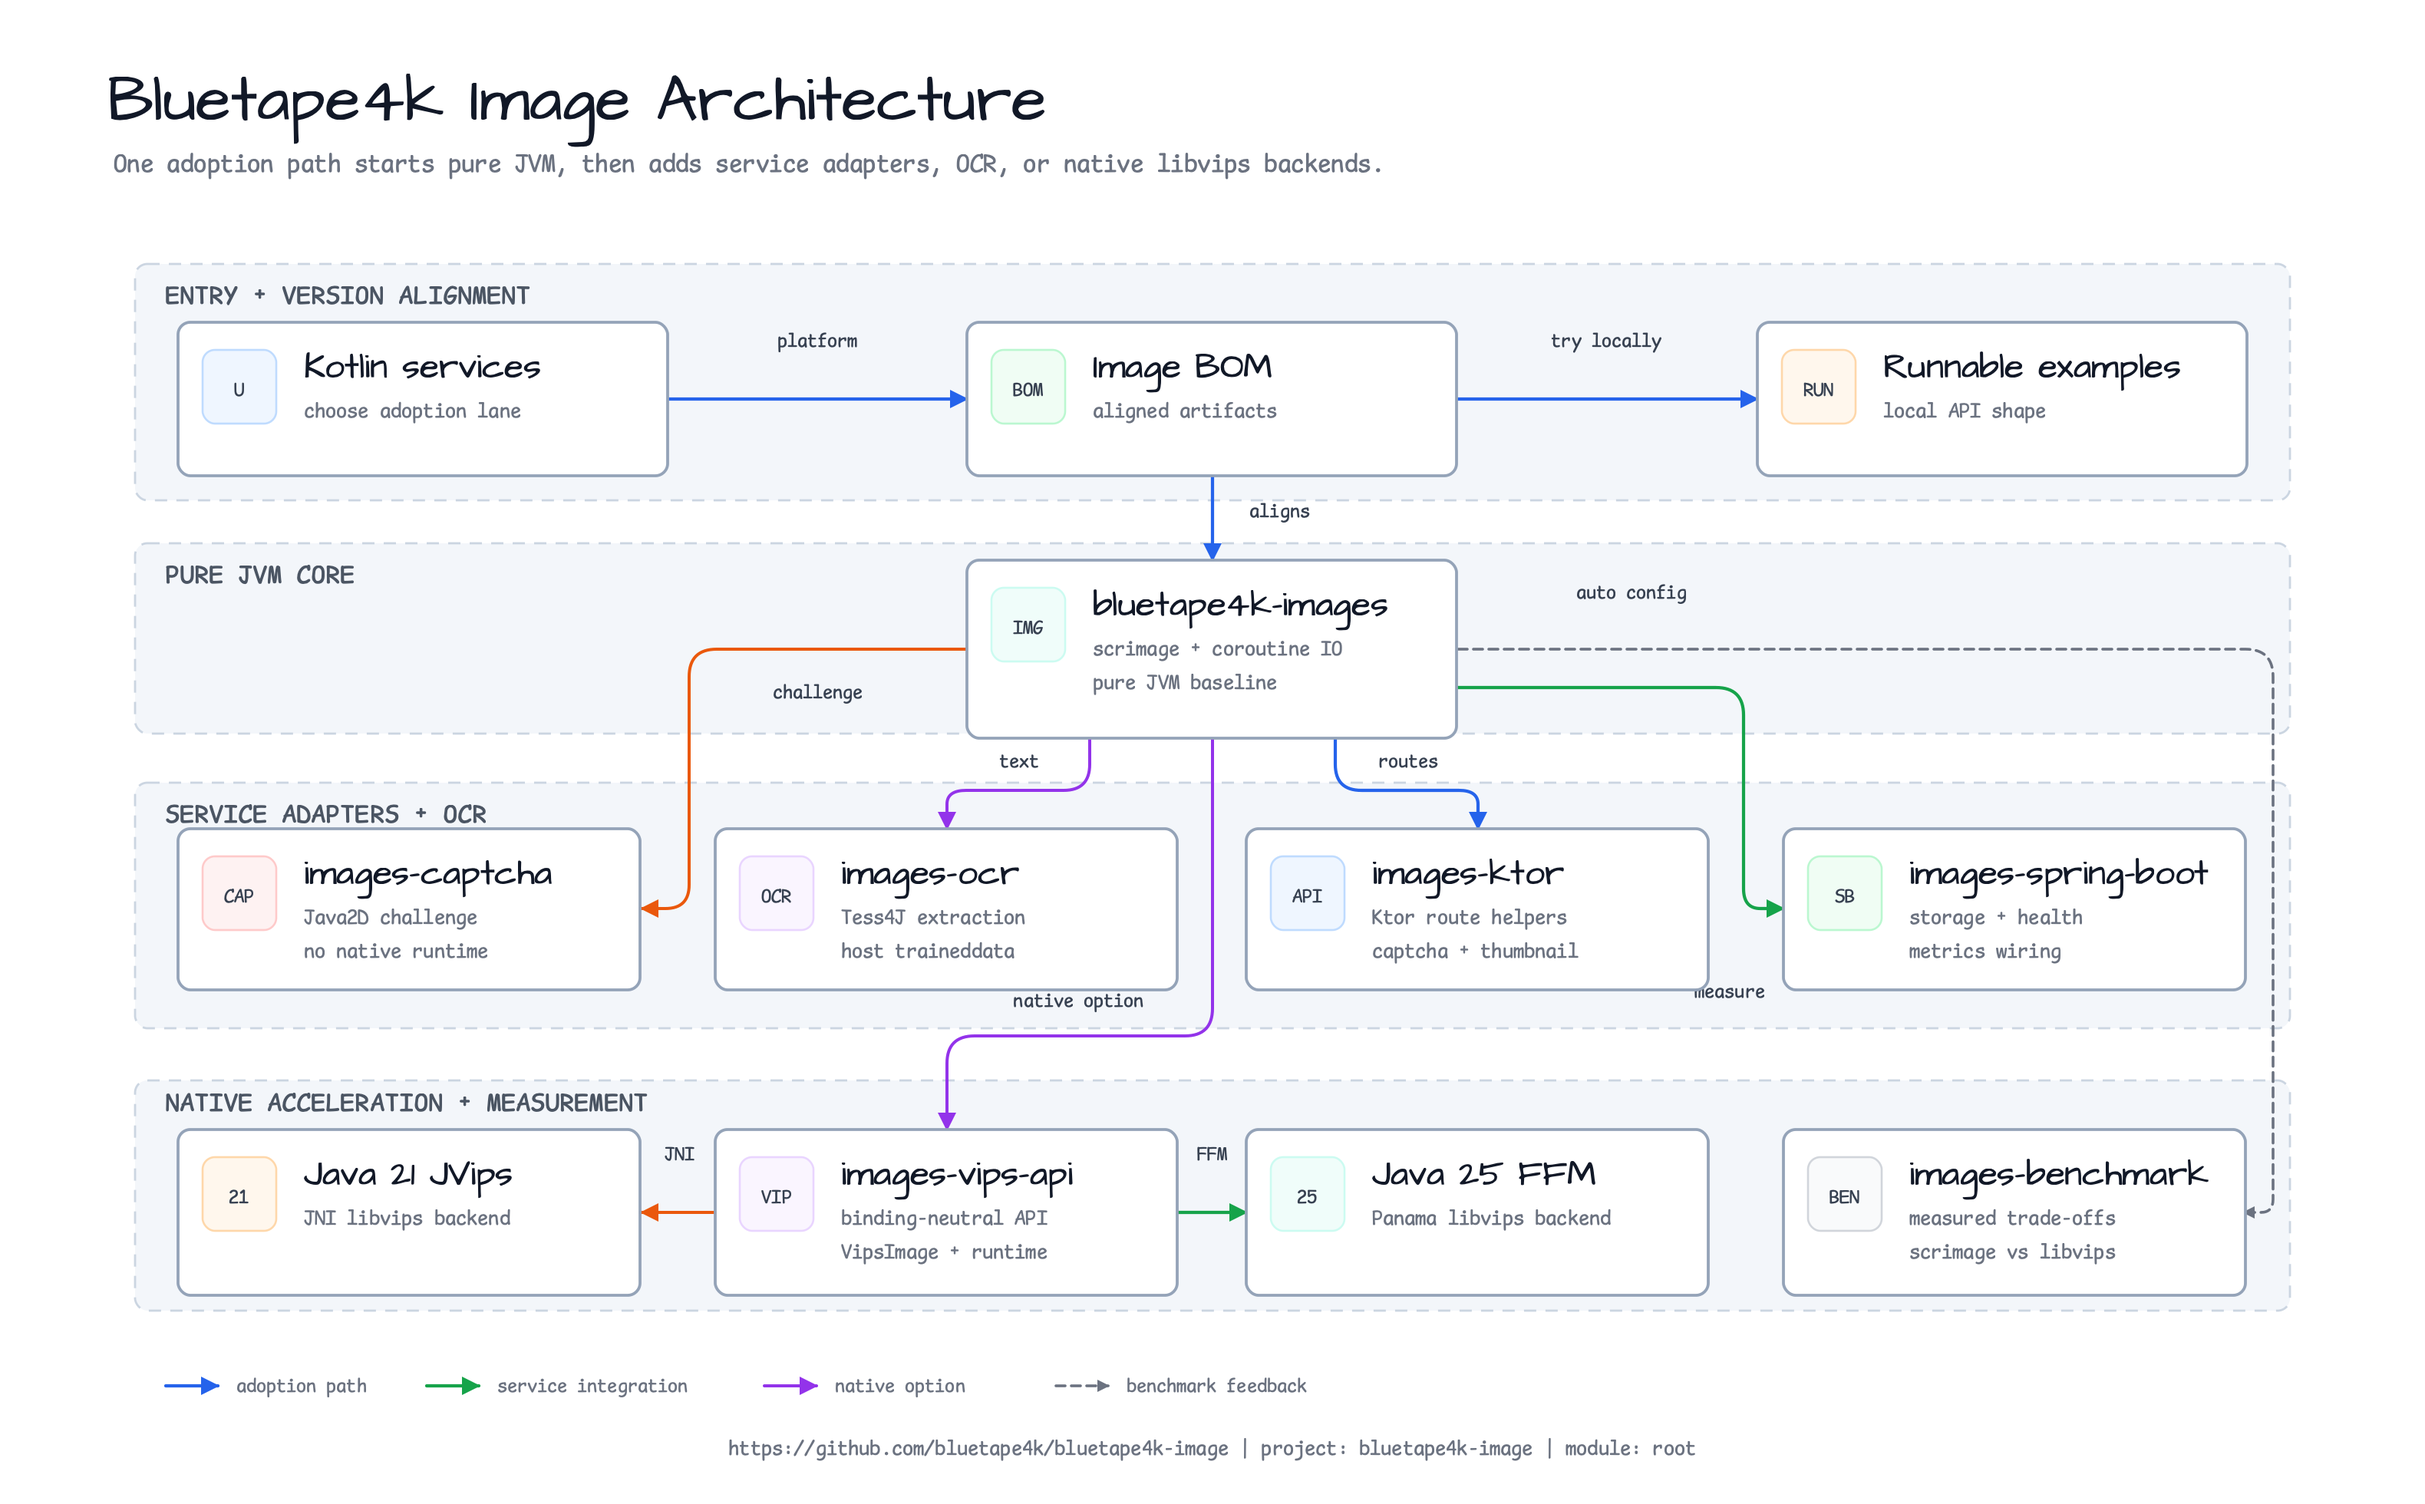
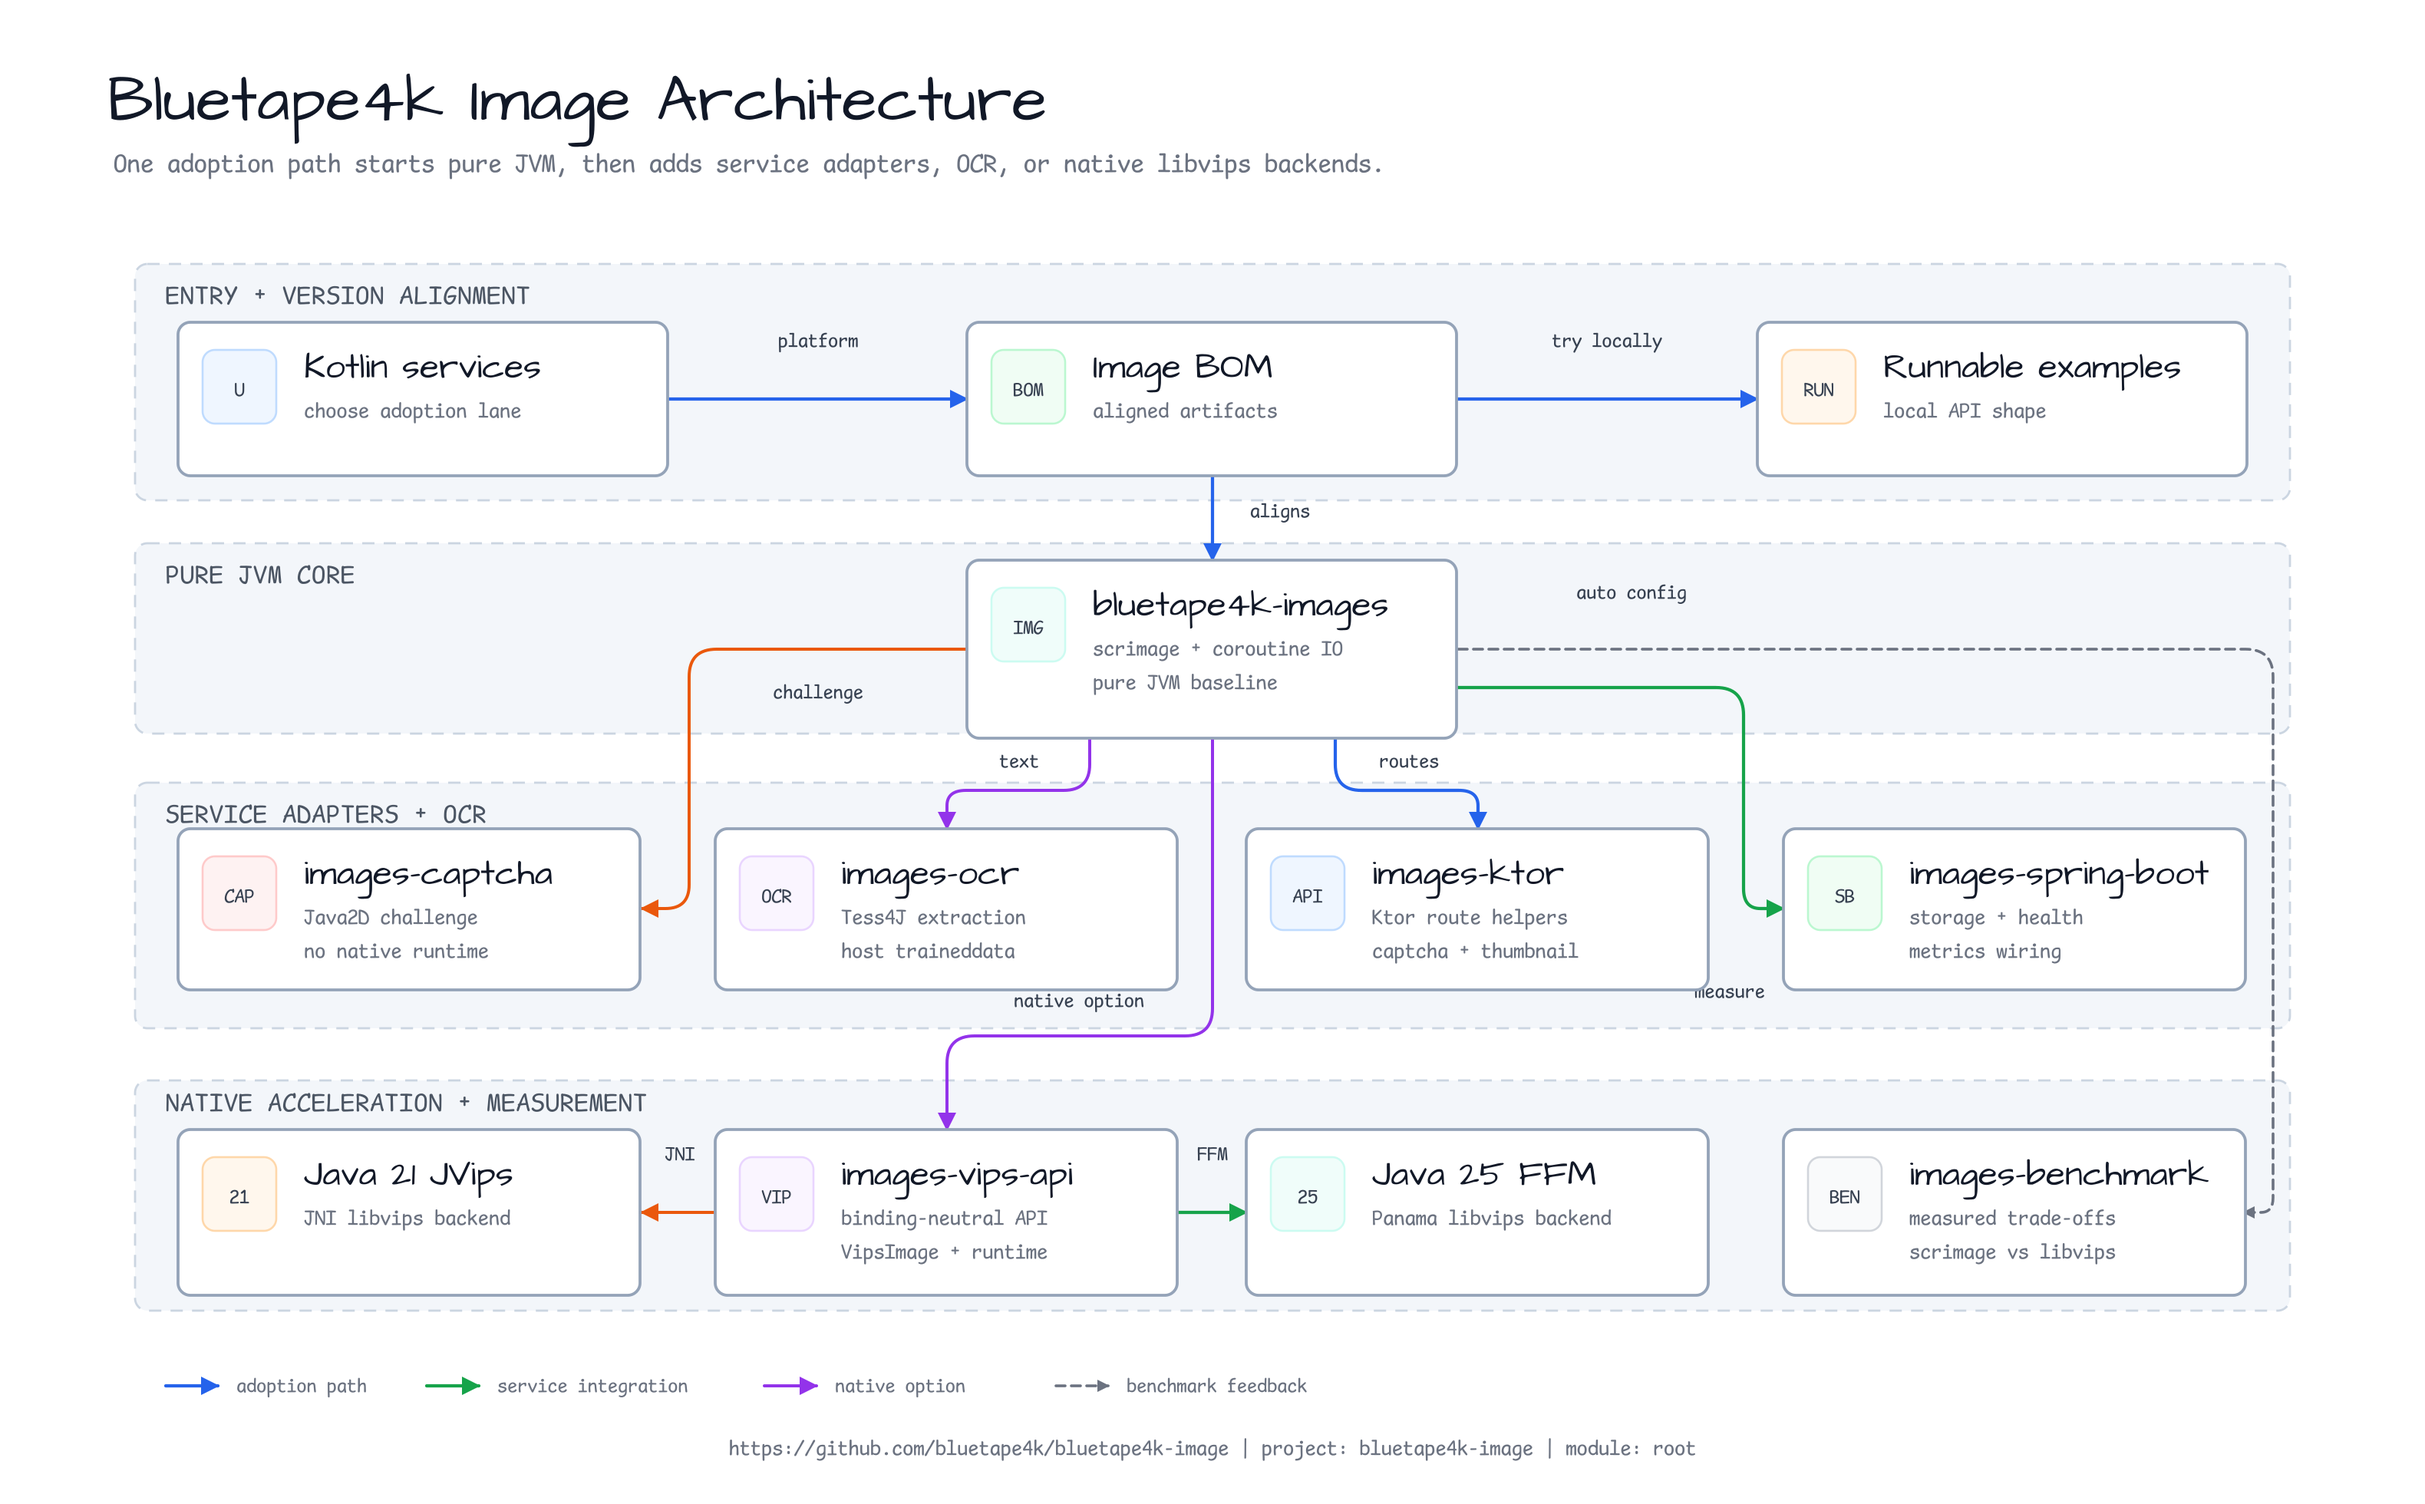
생성기 재생성에서도 이미지 아키텍처의 둥근 연결과 렌더 해상도를 보존한다
다중 구간 orthogonal route를 안정적인 Q bend로 렌더링하고 마지막 bend에는 arrowhead 여유를 남긴다. 승인된 2x PNG 해상도도 generator에서 다시 보장한다.\n\nConstraint: 승인된 이미지 SVG/PNG의 둥근 connector geometry와 3160x1960 preview 해상도를 재생성 후에도 보존해야 한다.\nRejected: 생성된 SVG/PNG만 손수 패치 | 다음 전체 재생성에서 Q bend와 해상도가 다시 사라진다.\nConfidence: high\nScope-risk: narrow\nDirective: 이후 route 변경도 rounded_orthogonal_path와 target audit를 함께 갱신한다.\nTested: 3 Python regression tests; py_compile; full generator diagrams=19 charts=16; XML, geometry, mixed-corner, connector, endpoint, arrowhead, visual audits; git diff --check\nNot-tested: 외부 GitHub CI와 push 이후 상태

diff --git a/docs/scripts/generate-readme-visual-assets.py b/docs/scripts/generate-readme-visual-assets.py
@@ -256,9 +256,69 @@ def edge_points(edge: Edge, cards: dict[str, Card]) -> tuple[tuple[int, int], ..
     return ((source.cx, source.y), (target.cx, target.bottom))
 
 
+def _format_coordinate(value: float) -> str:
+    if float(value).is_integer():
+        return str(int(value))
+    return f"{value:.1f}".rstrip("0").rstrip(".")
+
+
+def rounded_orthogonal_path(
+    points: tuple[tuple[int, int], ...], radius: float = 18.0, terminal_clearance: float = 15.0
+) -> str:
+    if len(points) < 2:
+        raise ValueError("an edge route needs at least two points")
+    if radius <= 0:
+        raise ValueError("edge bend radius must be positive")
+    if terminal_clearance < 0:
+        raise ValueError("terminal clearance must be non-negative")
+
+    def unit_vector(delta: tuple[int, int]) -> tuple[int, int]:
+        if (delta[0] == 0) == (delta[1] == 0):
+            raise ValueError("edge routes must be orthogonal")
+        return (
+            0 if delta[0] == 0 else (1 if delta[0] > 0 else -1),
+            0 if delta[1] == 0 else (1 if delta[1] > 0 else -1),
+        )
+
+    commands = [f"M {points[0][0]} {points[0][1]}"]
+    for source, corner, target in zip(points, points[1:], points[2:]):
+        incoming = (corner[0] - source[0], corner[1] - source[1])
+        outgoing = (target[0] - corner[0], target[1] - corner[1])
+        incoming_unit = unit_vector(incoming)
+        outgoing_unit = unit_vector(outgoing)
+        if incoming_unit[0] * outgoing_unit[0] + incoming_unit[1] * outgoing_unit[1] != 0:
+            raise ValueError("edge turns must change axis at each corner")
+
+        bend = min(
+            radius,
+            max(abs(incoming[0]), abs(incoming[1])) / 2,
+            max(abs(outgoing[0]), abs(outgoing[1])) / 2,
+        )
+        approach = (
+            corner[0] - incoming_unit[0] * bend,
+            corner[1] - incoming_unit[1] * bend,
+        )
+        departure_bend = bend
+        if target == points[-1]:
+            out_length = max(abs(outgoing[0]), abs(outgoing[1]))
+            if out_length < terminal_clearance:
+                raise ValueError("edge route is too short for terminal arrowhead clearance")
+            departure_bend = min(bend, out_length - terminal_clearance)
+        departure = (
+            corner[0] + outgoing_unit[0] * departure_bend,
+            corner[1] + outgoing_unit[1] * departure_bend,
+        )
+        commands.append(f"L {_format_coordinate(approach[0])} {_format_coordinate(approach[1])}")
+        commands.append(
+            f"Q {corner[0]} {corner[1]} {_format_coordinate(departure[0])} {_format_coordinate(departure[1])}"
+        )
+    commands.append(f"L {points[-1][0]} {points[-1][1]}")
+    return " ".join(commands)
+
+
 def render_edge(edge: Edge, cards: dict[str, Card]) -> list[str]:
     points = edge_points(edge, cards)
-    d = " ".join([f"M {points[0][0]} {points[0][1]}", *(f"L {x} {y}" for x, y in points[1:])])
+    d = rounded_orthogonal_path(points, terminal_clearance=11.0 if edge.dashed else 15.0)
     css = edge_css(edge.color, edge.dashed)
     marker = {"edge-blue": "arrow-blue", "edge-green": "arrow-green", "edge-orange": "arrow-orange", "edge-purple": "arrow-purple", "edge-gray": "arrow-gray"}[css]
     out = [f'<path data-connector="true" marker-end="url(#{marker})" class="{css}" d="{d}"/>']
@@ -529,7 +589,7 @@ def render_fireworks_architecture(spec: DiagramSpec) -> str:
     }
     for edge in shifted_edges:
         points = edge_points(edge, cards)
-        d = " ".join([f"M {points[0][0]} {points[0][1]}", *(f"L {x} {y}" for x, y in points[1:])])
+        d = rounded_orthogonal_path(points, terminal_clearance=11.0 if edge.dashed else 15.0)
         css = edge_styles.get(edge.color, "edge-blue")
         if edge.dashed:
             css = "edge-gray"
@@ -592,7 +652,7 @@ def save_diagram(spec: DiagramSpec) -> str:
     margins = validate_diagram(spec)
     svg = DIAGRAM_OUT / f"{spec.base}.svg"
     svg.write_text(render_diagram(spec), encoding="utf-8")
-    subprocess.run(["rsvg-convert", str(svg), "-o", str(svg.with_suffix(".png"))], check=True)
+    subprocess.run(["rsvg-convert", "-z", "2", str(svg), "-o", str(svg.with_suffix(".png"))], check=True)
     return (
         f"{spec.base}: nodes={len(spec.cards)} routes={len(spec.edges)} segments={len(spec.edges)} "
         f"badEndpointAngle=0 badBends=0 interiorCrossings=0 nodeOverlaps=0 laneClearance=0 "
@@ -654,7 +714,7 @@ def bluetape4k_image_architecture_spec() -> DiagramSpec:
         Edge("images", "vipsApi", "native option", "#8A72D6", points=((880, 481), (880, 675), (685, 675), (685, 736)), label_pos=(782, 656)),
         Edge("vipsApi", "java21", "JNI", "#D6A441", points=((515, 790), (460, 790)), label_pos=(488, 756)),
         Edge("vipsApi", "java25", "FFM", "#45A7A1", points=((855, 790), (905, 790)), label_pos=(880, 756)),
-        Edge("images", "bench", "measure", "#B88A44", True, points=((1060, 423), (1660, 423), (1660, 790), (1640, 790)), label_pos=(1260, 650)),
+        Edge("images", "bench", "measure", "#B88A44", True, points=((1060, 423), (1660, 423), (1660, 790), (1638, 790)), label_pos=(1260, 650)),
     )
     return DiagramSpec(
         "bluetape4k-image-architecture-01",

diff --git a/docs/scripts/test_generate_readme_visual_assets.py b/docs/scripts/test_generate_readme_visual_assets.py
@@ -1,0 +1,55 @@
+#!/usr/bin/env python3
+"""Regression tests for README visual asset path generation."""
+
+from __future__ import annotations
+
+import importlib.util
+import re
+import sys
+import unittest
+from pathlib import Path
+
+
+SCRIPT = Path(__file__).with_name("generate-readme-visual-assets.py")
+MODULE_SPEC = importlib.util.spec_from_file_location("readme_visual_assets", SCRIPT)
+if MODULE_SPEC is None or MODULE_SPEC.loader is None:
+    raise RuntimeError(f"cannot load generator module: {SCRIPT}")
+MODULE = importlib.util.module_from_spec(MODULE_SPEC)
+sys.modules[MODULE_SPEC.name] = MODULE
+MODULE_SPEC.loader.exec_module(MODULE)
+
+
+class RoundedPathTest(unittest.TestCase):
+    def test_orthogonal_turns_are_emitted_as_quadratic_bends(self) -> None:
+        path = MODULE.rounded_orthogonal_path(
+            ((0, 0), (100, 0), (100, 100), (20, 100)),
+            radius=18,
+        )
+
+        self.assertEqual(
+            path,
+            "M 0 0 L 82 0 Q 100 0 100 18 L 100 82 Q 100 100 82 100 L 20 100",
+        )
+
+    def test_terminal_clearance_shortens_only_the_last_bend(self) -> None:
+        path = MODULE.rounded_orthogonal_path(
+            ((0, 0), (100, 0), (100, 25)),
+            radius=18,
+            terminal_clearance=15,
+        )
+
+        self.assertEqual(path, "M 0 0 L 87.5 0 Q 100 0 100 10 L 100 25")
+
+    def test_target_renderer_keeps_all_bent_edges_rounded(self) -> None:
+        svg = MODULE.render_diagram(MODULE.bluetape4k_image_architecture_spec())
+
+        bent_paths = [line for line in svg.splitlines() if 'data-connector="true"' in line and " d=\"" in line]
+        self.assertEqual(len(bent_paths), 11)
+        self.assertEqual(sum(" Q " in line for line in bent_paths), 6)
+        for line in bent_paths:
+            commands = re.findall(r"(?:^|\s)([MLQ])\s", line.split(' d="', 1)[1])
+            self.assertFalse(any(left == right == "L" for left, right in zip(commands, commands[1:])))
+
+
+if __name__ == "__main__":
+    unittest.main()
